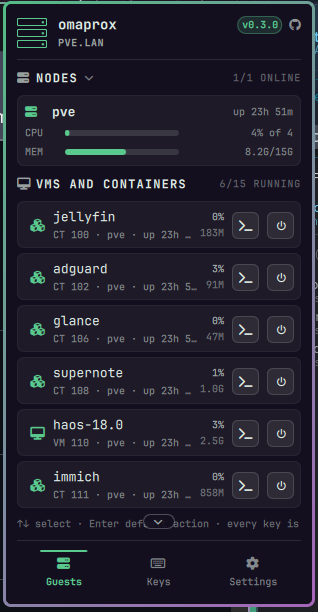
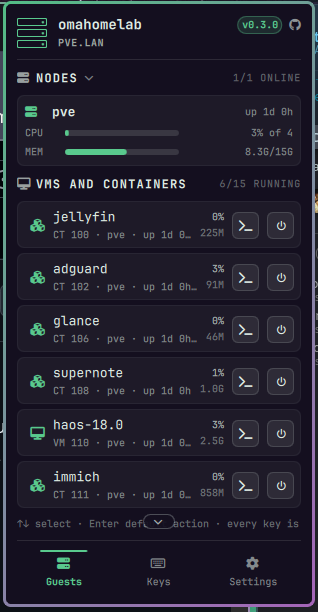
Retake the screenshots and retitle the README for omahomelab

diff --git a/README.md b/README.md
@@ -1,6 +1,6 @@
-# Proxmox for Omarchy
+# omahomelab
 
-A bar widget for Omarchy 4 (Quattro) that shows your Proxmox VE nodes, VMs, containers and
+A homelab bar widget for Omarchy 4 (Quattro), for Proxmox VE. It shows your nodes, VMs, containers and
 storage, and lets you start, shut down, reboot, snapshot, and open consoles without leaving
 the keyboard.
 
